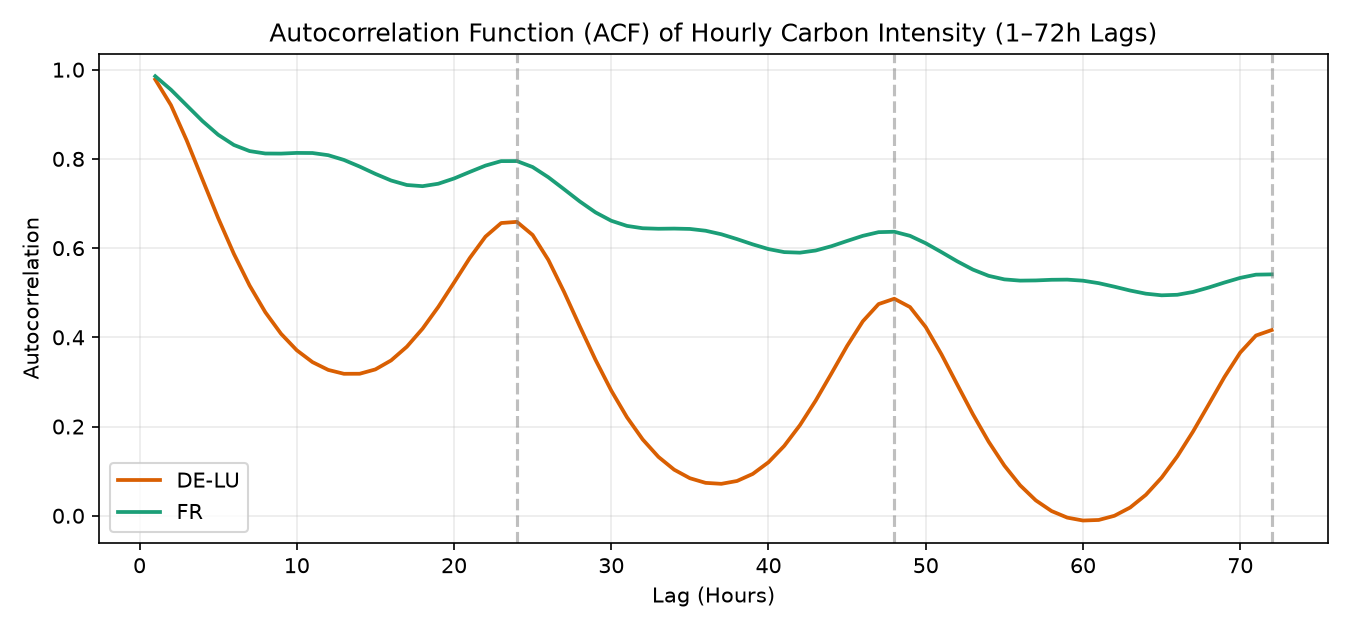
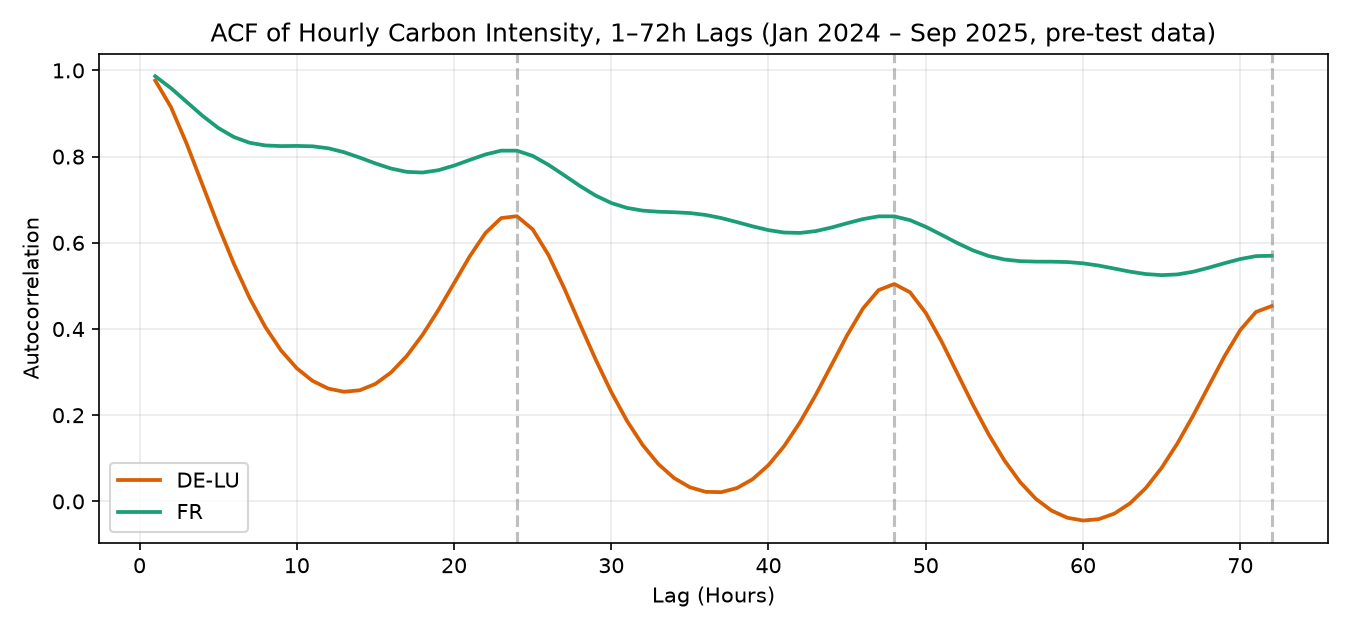
fix(C): purge split boundaries, make Gate G2 falsifiable, seal EDA from test
- C1: chronological_four_way_split keeps a row only if its target also
  falls inside the split, so no target hour is shared between Train, Calib,
  Gate-Val and Locked Test; assert_splits_do_not_overlap enforces it
- C2: audit_temporal_alignment re-derives every lag, the rolling mean and
  every target by timestamp lookup and runs on each build; it replaces
  assertions that compared columns to the values they were assigned from
- C3: EDA notebook uses only hours up to the end of Gate-Val; the three EDA
  plots are regenerated on that period
- C5: fix axes.set_ylabel crash in the EDA heatmap
- C6: local scoring picks the latest Gate-Val origin that still has all 24
  horizons after purging
- tests: audit must fail on a misaligned lag, a future value used as a
  feature and a wrong target; splits must be disjoint in target hours
  (19 tests)

Locked-test coverage after purging: DE-LU 89.67%, FR 80.00%.

diff --git a/tests/test_no_leakage.py b/tests/test_no_leakage.py
@@ -6,12 +6,19 @@ from pathlib import Path
 
 import numpy as np
 import pandas as pd
+import pytest
 
 from carbon_mlops.config import CarbonMLOpsConfig
 from carbon_mlops.features.build_features import (
     CAUSAL_FEATURE_COLS,
+    audit_temporal_alignment,
     build_horizon_features,
     materialize_uc_feature_table,
+    regularize_zone_to_hourly_grid,
+)
+from carbon_mlops.models.train import (
+    assert_splits_do_not_overlap,
+    chronological_four_way_split,
 )
 
 
@@ -142,3 +149,74 @@ def test_partial_and_incomplete_hours_are_masked(tmp_path: Path) -> None:
     # The other zone is untouched.
     fr_feats = features[features["zone"] == "FR"]
     assert fr_feats["origin_timestamp"].isin(flagged).any()
+
+
+def _one_zone_features(tmp_path: Path) -> tuple[pd.DataFrame, pd.DataFrame]:
+    cfg = CarbonMLOpsConfig()
+    bronze = _make_synthetic_bronze(hours=96)
+    features = build_horizon_features(bronze, cfg=cfg, write_output=False, base_dir=tmp_path)
+    grid = regularize_zone_to_hourly_grid(bronze[bronze["zone"] == "DE-LU"])
+    return features[features["zone"] == "DE-LU"].reset_index(drop=True), grid
+
+
+def test_gate_g2_audit_detects_misaligned_lag(tmp_path: Path) -> None:
+    features, grid = _one_zone_features(tmp_path)
+    audit_temporal_alignment(features, grid)
+
+    shifted = features.copy()
+    shifted["ci_lag_3h"] = shifted["ci_lag_6h"]
+    with pytest.raises(AssertionError, match="ci_lag_3h"):
+        audit_temporal_alignment(shifted, grid)
+
+
+def test_gate_g2_audit_detects_future_value_as_feature(tmp_path: Path) -> None:
+    features, grid = _one_zone_features(tmp_path)
+    leaked = features.copy()
+    leaked["carbon_intensity_origin"] = leaked["target_carbon_intensity"]
+    with pytest.raises(AssertionError, match="carbon_intensity_origin"):
+        audit_temporal_alignment(leaked, grid)
+
+
+def test_gate_g2_audit_detects_wrong_target(tmp_path: Path) -> None:
+    features, grid = _one_zone_features(tmp_path)
+    wrong = features.copy()
+    wrong["target_carbon_intensity"] = wrong["carbon_intensity_origin"]
+    with pytest.raises(AssertionError, match="target is not the value"):
+        audit_temporal_alignment(wrong, grid)
+
+
+def test_splits_are_purged_at_every_boundary(tmp_path: Path) -> None:
+    cfg = CarbonMLOpsConfig()
+    bronze = _make_synthetic_bronze(hours=480)
+    features = build_horizon_features(bronze, cfg=cfg, write_output=False, base_dir=tmp_path)
+    splits = chronological_four_way_split(features, cfg=cfg)
+
+    names = ["train", "calib", "gate_val", "locked_test"]
+    assert all(len(splits[n]) > 0 for n in names)
+    for earlier, later in zip(names[:-1], names[1:], strict=True):
+        assert splits[earlier]["target_timestamp"].max() < splits[later]["origin_timestamp"].min()
+
+    # No (zone, target hour) label is shared between any two splits.
+    seen: set[tuple[str, pd.Timestamp]] = set()
+    for n in names:
+        labels = set(zip(splits[n]["zone"], splits[n]["target_timestamp"], strict=True))
+        assert not (labels & seen), f"{n} shares target hours with an earlier split"
+        seen |= labels
+
+    # The locked test keeps every horizon of every one of its origins.
+    per_origin = splits["locked_test"].groupby(["zone", "origin_timestamp"]).size()
+    assert per_origin.max() == len(cfg.horizons)
+
+
+def test_split_overlap_check_fails_on_unpurged_splits(tmp_path: Path) -> None:
+    cfg = CarbonMLOpsConfig()
+    bronze = _make_synthetic_bronze(hours=480)
+    features = build_horizon_features(bronze, cfg=cfg, write_output=False, base_dir=tmp_path)
+    labelled = features.dropna(subset=["target_carbon_intensity"])
+    cut = labelled["origin_timestamp"].sort_values().iloc[len(labelled) // 2]
+    unpurged = {
+        "train": labelled[labelled["origin_timestamp"] <= cut],
+        "calib": labelled[labelled["origin_timestamp"] > cut],
+    }
+    with pytest.raises(AssertionError, match="Split leakage"):
+        assert_splits_do_not_overlap(unpurged)

diff --git a/src/carbon_mlops/models/train.py b/src/carbon_mlops/models/train.py
@@ -32,35 +32,64 @@ class TrainingArtifacts:
     model_version: str | None = None
 
 
+SPLIT_ORDER: tuple[str, ...] = ("train", "calib", "gate_val", "locked_test")
+
+
+def compute_split_boundaries(
+    features_df: pd.DataFrame,
+    cfg: CarbonMLOpsConfig | None = None,
+) -> dict[str, pd.Timestamp]:
+    """Return the last origin_timestamp of Train, Calib and Gate-Val (Locked Test follows)."""
+    cfg = cfg or CarbonMLOpsConfig()
+    labelled = features_df.dropna(subset=["target_carbon_intensity"])
+    origins = pd.DatetimeIndex(labelled["origin_timestamp"].unique()).sort_values()
+    n = len(origins)
+
+    r_train, r_calib, r_gate, _ = cfg.split_ratios
+    return {
+        "train": origins[int(n * r_train) - 1],
+        "calib": origins[int(n * (r_train + r_calib)) - 1],
+        "gate_val": origins[int(n * (r_train + r_calib + r_gate)) - 1],
+    }
+
+
+def assert_splits_do_not_overlap(splits: dict[str, pd.DataFrame]) -> None:
+    """Raise if any split's targets reach into the origins of the split that follows it."""
+    present = [name for name in SPLIT_ORDER if name in splits and not splits[name].empty]
+    for earlier, later in zip(present[:-1], present[1:], strict=True):
+        last_target = splits[earlier]["target_timestamp"].max()
+        first_origin = splits[later]["origin_timestamp"].min()
+        if last_target >= first_origin:
+            raise AssertionError(
+                f"Split leakage: {earlier} targets reach {last_target}, "
+                f"but {later} origins start at {first_origin}"
+            )
+
+
 def chronological_four_way_split(
     features_df: pd.DataFrame,
     cfg: CarbonMLOpsConfig | None = None,
 ) -> dict[str, pd.DataFrame]:
-    """Partition supervised horizon rows by origin_timestamp into Train/Calib/GateVal/Test."""
+    """Partition supervised horizon rows by origin_timestamp into Train/Calib/GateVal/Test.
+
+    Rows are purged at every boundary: a row belongs to a split only if its target also
+    falls inside that split. Without this, the last 24 hours of origins in one split carry
+    labels that the next split uses as features and as its own labels.
+    """
     cfg = cfg or CarbonMLOpsConfig()
     df = features_df.dropna(subset=["target_carbon_intensity"]).copy()
-    origins = np.sort(df["origin_timestamp"].unique())
-    n = len(origins)
+    ends = compute_split_boundaries(df, cfg=cfg)
+    origin, target = df["origin_timestamp"], df["target_timestamp"]
 
-    r_train, r_calib, r_gate, _ = cfg.split_ratios
-    i_train = int(n * r_train)
-    i_calib = int(n * (r_train + r_calib))
-    i_gate = int(n * (r_train + r_calib + r_gate))
-
-    t_train_end = origins[i_train - 1]
-    t_calib_end = origins[i_calib - 1]
-    t_gate_end = origins[i_gate - 1]
-
-    return {
-        "train": df[df["origin_timestamp"] <= t_train_end].reset_index(drop=True),
-        "calib": df[
-            (df["origin_timestamp"] > t_train_end) & (df["origin_timestamp"] <= t_calib_end)
-        ].reset_index(drop=True),
-        "gate_val": df[
-            (df["origin_timestamp"] > t_calib_end) & (df["origin_timestamp"] <= t_gate_end)
-        ].reset_index(drop=True),
-        "locked_test": df[df["origin_timestamp"] > t_gate_end].reset_index(drop=True),
+    splits = {
+        "train": df[target <= ends["train"]],
+        "calib": df[(origin > ends["train"]) & (target <= ends["calib"])],
+        "gate_val": df[(origin > ends["calib"]) & (target <= ends["gate_val"])],
+        "locked_test": df[origin > ends["gate_val"]],
     }
+    splits = {name: part.reset_index(drop=True) for name, part in splits.items()}
+    assert_splits_do_not_overlap(splits)
+    return splits
 
 
 def pinball_loss(y_true: np.ndarray, y_pred: np.ndarray, alpha: float) -> float:

diff --git a/src/carbon_mlops/features/build_features.py b/src/carbon_mlops/features/build_features.py
@@ -105,6 +105,50 @@ def _build_zone_origin_features(grid_df: pd.DataFrame) -> pd.DataFrame:
     return df
 
 
+LAG_HOURS_BY_FEATURE: dict[str, int] = {
+    "carbon_intensity_origin": 0,
+    "ci_lag_1h": 1,
+    "ci_lag_3h": 3,
+    "ci_lag_6h": 6,
+    "ci_lag_24h": 24,
+}
+
+
+def audit_temporal_alignment(zone_features: pd.DataFrame, grid_df: pd.DataFrame) -> None:
+    """Gate G2: re-derive every lag and target by timestamp lookup and compare.
+
+    The features are built with positional shifts and a merge. This audit reads the same
+    values straight from the hourly series by timestamp, so it fails if a lag is not
+    exactly k hours before the origin, if a target is not the value at
+    origin + horizon_h, or if any feature looks past its origin.
+    """
+    series = grid_df.set_index("timestamp_utc")["carbon_intensity_g_kwh"]
+    origin = zone_features["origin_timestamp"]
+
+    for col, lag_h in LAG_HOURS_BY_FEATURE.items():
+        expected = series.reindex(origin - pd.Timedelta(hours=lag_h)).to_numpy()
+        if not np.allclose(zone_features[col].to_numpy(), expected, equal_nan=True):
+            raise AssertionError(f"Gate G2 violation: {col} is not the value at origin-{lag_h}h")
+
+    expected_target_ts = origin + pd.to_timedelta(zone_features["horizon_h"], unit="h")
+    if (zone_features["target_timestamp"] != expected_target_ts).any():
+        raise AssertionError("Gate G2 violation: target_timestamp != origin_timestamp + horizon_h")
+    if (zone_features["target_timestamp"] <= origin).any():
+        raise AssertionError("Gate G2 violation: a target is not strictly after its origin")
+    expected_target = series.reindex(zone_features["target_timestamp"]).to_numpy()
+    actual_target = zone_features["target_carbon_intensity"].to_numpy()
+    if not np.allclose(actual_target, expected_target, equal_nan=True):
+        raise AssertionError("Gate G2 violation: target is not the value at target_timestamp")
+
+    rolling_mean = series.rolling("24h", min_periods=12).mean()
+    expected_roll = rolling_mean.reindex(origin).to_numpy()
+    if not np.allclose(zone_features["ci_roll24_mean"].to_numpy(), expected_roll, equal_nan=True):
+        raise AssertionError("Gate G2 violation: ci_roll24_mean is not the trailing 24h mean")
+
+    if (zone_features["max_feature_timestamp"] > origin).any():
+        raise AssertionError("Gate G2 violation: max_feature_timestamp exceeds origin_timestamp")
+
+
 def build_horizon_features(
     bronze_df: pd.DataFrame,
     cfg: CarbonMLOpsConfig | None = None,
@@ -133,6 +177,7 @@ def build_horizon_features(
             )
         )
 
+        zone_start = len(zone_frames)
         for h in cfg.horizons:
             h_df = origin_df[
                 [
@@ -168,19 +213,13 @@ def build_horizon_features(
             h_df = h_df.merge(target_lookup, on="target_timestamp", how="left")
             zone_frames.append(h_df)
 
+        audit_temporal_alignment(pd.concat(zone_frames[zone_start:], ignore_index=True), grid_df)
+
     features_df = (
         pd.concat(zone_frames, ignore_index=True)
         .sort_values(["zone", "origin_timestamp", "horizon_h"])
         .reset_index(drop=True)
     )
-
-    if (features_df["max_feature_timestamp"] > features_df["origin_timestamp"]).any():
-        raise AssertionError("Gate G2 violation: max_feature_timestamp exceeds origin_timestamp")
-    expected_target = features_df["origin_timestamp"] + pd.to_timedelta(
-        features_df["horizon_h"], unit="h"
-    )
-    if (features_df["target_timestamp"] != expected_target).any():
-        raise AssertionError("Gate G2 violation: target_timestamp != origin_timestamp + horizon_h")
 
     if write_output:
         table_name = f"{cfg.schema}.grid_horizon_features"

diff --git a/notebooks/01_eda_and_data_quality.py b/notebooks/01_eda_and_data_quality.py
@@ -1,5 +1,9 @@
 # Databricks notebook source
-"""Sprint 1 (US-1.2): Exploratory Data Analysis & Grid Regime Diagnostics (DE-LU vs. FR)."""
+"""Sprint 1 (US-1.2): Exploratory Data Analysis & Grid Regime Diagnostics (DE-LU vs. FR).
+
+The Locked Holdout Test period is excluded: every plot uses only hours up to the end of the
+Gate-Val split, so exploration cannot inform the hypotheses tested on the locked data.
+"""
 
 from __future__ import annotations
 
@@ -11,7 +15,9 @@ import numpy as np
 import pandas as pd
 
 from carbon_mlops.config import CarbonMLOpsConfig
+from carbon_mlops.features.build_features import build_horizon_features
 from carbon_mlops.ingestion.ingest_entsoe import ingest_bronze_snapshot
+from carbon_mlops.models.train import compute_split_boundaries
 
 matplotlib.use("Agg")
 
@@ -21,6 +27,11 @@ def generate_eda_diagnostics(cfg: CarbonMLOpsConfig | None = None) -> list[Path]
     cfg = cfg or CarbonMLOpsConfig()
     df = ingest_bronze_snapshot(cfg=cfg)
     df["timestamp_utc"] = pd.to_datetime(df["timestamp_utc"])
+
+    features = build_horizon_features(df, cfg=cfg, write_output=False)
+    last_pre_test_hour = compute_split_boundaries(features, cfg=cfg)["gate_val"]
+    df = df[df["timestamp_utc"] <= last_pre_test_hour].copy()
+    period = f"{df['timestamp_utc'].min():%b %Y} – {df['timestamp_utc'].max():%b %Y}"
     df["hour_utc"] = df["timestamp_utc"].dt.hour
     df["month"] = df["timestamp_utc"].dt.month
 
@@ -38,7 +49,7 @@ def generate_eda_diagnostics(cfg: CarbonMLOpsConfig | None = None) -> list[Path]
         )
         ax.axvline(med, color="#222222", linestyle="--", linewidth=1.5, label=f"Median: {med:.1f}")
         ax.axvspan(q25, q75, color=color, alpha=0.15, label=f"IQR: {q25:.1f}–{q75:.1f}")
-        ax.set_title(f"{zone} Hourly Carbon Intensity (2024–2025)")
+        ax.set_title(f"{zone} Hourly Carbon Intensity ({period})")
         ax.set_xlabel("Carbon Intensity (gCO2eq/kWh)")
         ax.set_ylabel("Probability Density")
         ax.legend(frameon=True, fontsize=9)
@@ -65,7 +76,7 @@ def generate_eda_diagnostics(cfg: CarbonMLOpsConfig | None = None) -> list[Path]
         ax.set_xticks(range(12))
         ax.set_xticklabels([str(m) for m in range(1, 13)])
         fig.colorbar(im, ax=ax, label="gCO2eq/kWh")
-    axes.set_ylabel("Hour (UTC)")
+    axes[0].set_ylabel("Hour (UTC)")
     p2 = cfg.images_dir / "eda_diurnal_heatmap.png"
     fig.tight_layout()
     fig.savefig(p2)
@@ -85,7 +96,7 @@ def generate_eda_diagnostics(cfg: CarbonMLOpsConfig | None = None) -> list[Path]
         ax.plot(lags, acfs, label=zone, color=color, linewidth=1.8)
     for mark in (24, 48, 72):
         ax.axvline(mark, color="gray", linestyle="--", alpha=0.5)
-    ax.set_title("Autocorrelation Function (ACF) of Hourly Carbon Intensity (1–72h Lags)")
+    ax.set_title(f"ACF of Hourly Carbon Intensity, 1–72h Lags ({period}, pre-test data)")
     ax.set_xlabel("Lag (Hours)")
     ax.set_ylabel("Autocorrelation")
     ax.legend()

diff --git a/src/carbon_mlops/inference/batch_score.py b/src/carbon_mlops/inference/batch_score.py
@@ -25,11 +25,13 @@ def run_local_pipeline(cfg: CarbonMLOpsConfig | None = None) -> pd.DataFrame:
     features_df = build_horizon_features(bronze_df, cfg=cfg, write_output=True)
     artifacts = train_split_cqr(features_df, cfg=cfg)
 
+    # Splits are purged at their boundaries, so the last origins of Gate-Val keep only their
+    # shortest horizons. Use the latest origin per zone that still has every horizon.
     gate_df = artifacts.splits["gate_val"]
-    latest_origins = gate_df.groupby("zone")["origin_timestamp"].transform("max")
-    latest_24h = (
-        gate_df[gate_df["origin_timestamp"] == latest_origins].copy().reset_index(drop=True)
-    )
+    n_horizons = gate_df.groupby(["zone", "origin_timestamp"])["horizon_h"].transform("size")
+    complete = gate_df[n_horizons == len(cfg.horizons)]
+    latest_origins = complete.groupby("zone")["origin_timestamp"].transform("max")
+    latest_24h = complete[complete["origin_timestamp"] == latest_origins].reset_index(drop=True)
 
     preds = artifacts.forecaster.predict(context=None, model_input=latest_24h)
     gold_df = pd.concat([latest_24h, preds], axis=1)

diff --git a/docs/REVIEW_ISSUES.md b/docs/REVIEW_ISSUES.md
@@ -51,10 +51,15 @@ Phase B outcome: lags are now hour-exact and 17 untrusted hours are masked. Lock
 
 | ID | Issue | Where | Status |
 | :--- | :--- | :--- | :--- |
-| C1 | No 24h purge; 600 rows per boundary have targets in the next split | `train.py:35-63` | open |
-| C2 | G2 assertions are tautological and miss the lag bug | `build_features.py:135-141`, `test_no_leakage.py` | open |
-| C3 | EDA notebook reads the locked-test period | `notebooks/01_eda_and_data_quality.py` | open |
+| C1 | No 24h purge; 600 rows per boundary have targets in the next split | `train.py:35-63` | done |
+| C2 | G2 assertions are tautological and miss the lag bug | `build_features.py:135-141`, `test_no_leakage.py` | done |
+| C3 | EDA notebook reads the locked-test period | `notebooks/01_eda_and_data_quality.py` | done (plots regenerated on pre-test data; the earlier look at the test period is disclosed under F11) |
 | C4 | Calibration season (spring/summer) differs from test season (autumn/winter) | design; addressed by D2 | open |
+| C5 | EDA notebook crashed at the heatmap (`axes.set_ylabel` on an array), so the committed plots could not be regenerated | `notebooks/01_eda_and_data_quality.py:68` | done |
+| C6 | Local scoring picked the last Gate-Val origin, which after purging has a single horizon | `batch_score.py` | done |
+
+Phase C outcome: every split is purged at its boundary and no target hour is shared between splits.
+Locked-test coverage after purging: DE-LU 89.67%, FR 80.00% (Gate-Val: DE-LU 92.25%, FR 87.00%).
 
 ## Phase D: Model and calibration
 
